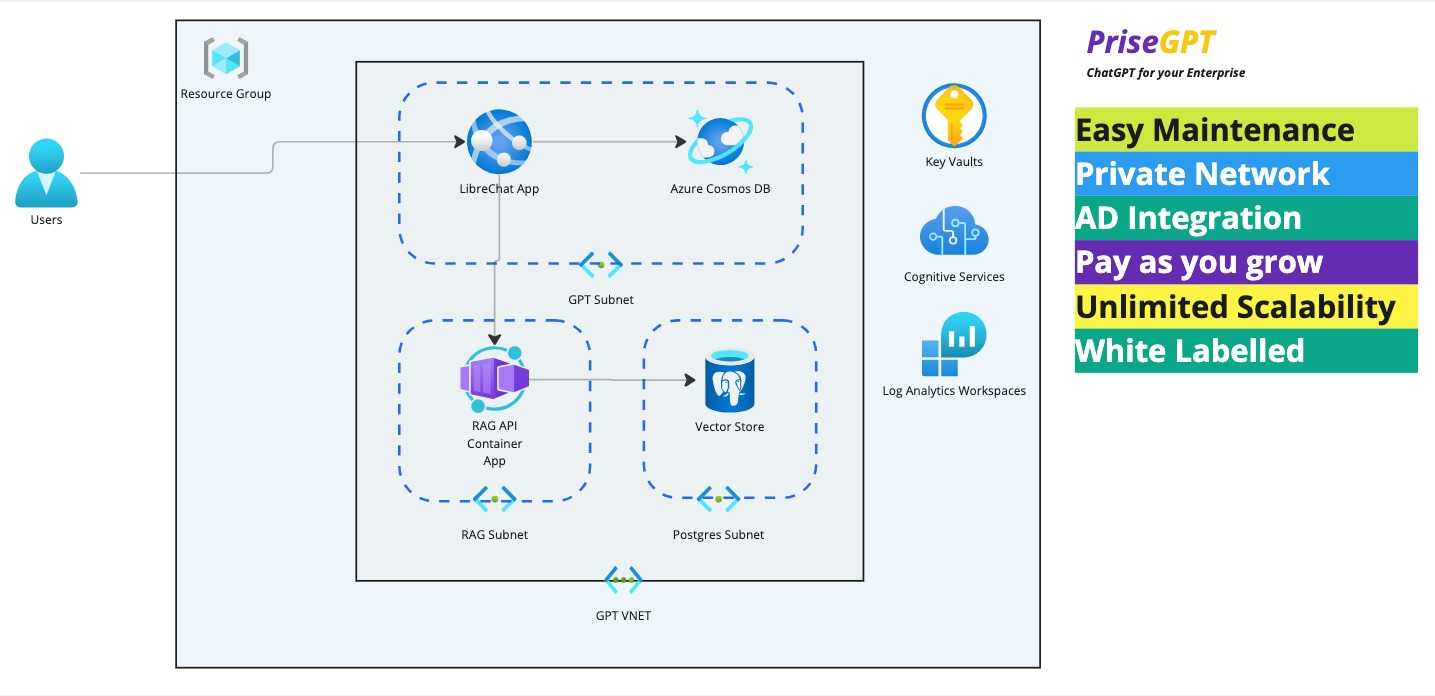
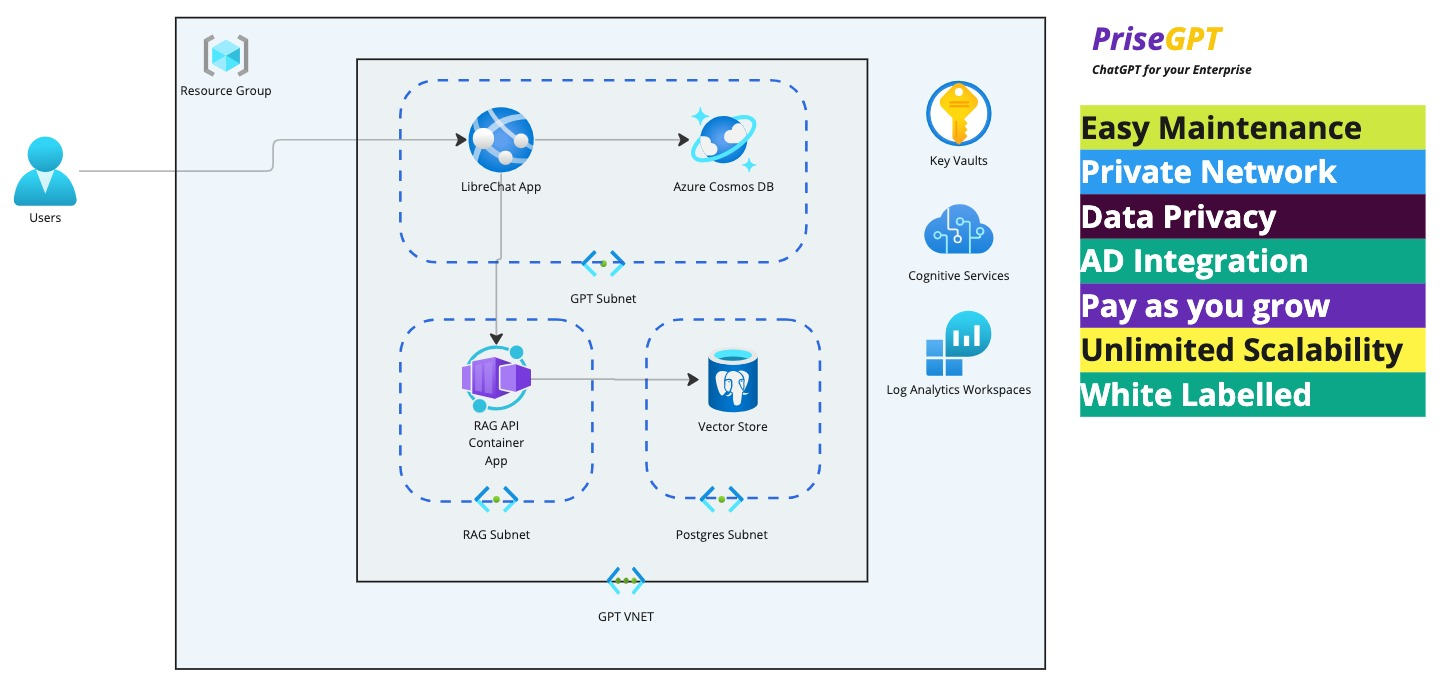
readme updates

diff --git a/README.md b/README.md
@@ -24,16 +24,23 @@ Version **1.x.** LibreChat on Azure with following features
 
 ## Introduction
 
-Under **OpenAI's** terms when using the public version of **ChatGPT**, any questions you pose—referred to as **"prompts"**—may contribute to the further training of OpenAI's Large Language Model (LLM). Given this, it's crucial to ask: Are you comfortable with this precious data flow leaving your organization? If you're a decision-maker or hold responsibility over your organization's security measures, what steps are you taking to ensure proprietary information remains confidential?  
+PriseGPT is a terraform module designed to provide enterprises with a ChatGPT-like solution within their Azure Virtual Private Cloud (VPC). It offers several key advantages:
 
-An effective solution lies in utilising a hosted version of the popular LLM on **Azure OpenAI**. While there are numerous advantages to Azure OpenAI, I'd like to spotlight two:
+- **Easy Maintenance**: Utilizing only containers and managed services, PriseGPT eliminates the need for virtual machines, simplifying maintenance and reducing operational overhead.
 
-- **Data Privacy**: By hosting OpenAI's models on Azure, your prompts will never serve as a source for training the LLM. It's simply a self-contained version running on Azure tailored for your use.
+- **Private Network**: Experience ChatGPT-like features securely within your Azure virtual private network, ensuring that sensitive conversations remain within your organization's infrastructure.
 
-- **Enhanced Security**: Azure OpenAI offers robust security measures, from the capability to secure specific endpoints to intricate role-based access controls.
-For a deeper dive, refer to this [Microsoft Learn article](https://learn.microsoft.com/en-us/azure/ai-services/openai/overview/?wt.mc_id=DT-MVP-5004771).  
+- **Data Privacy**: Leverage Microsoft's data guarantees and prevent your corporate data from being used for training. Unlike OpenAI's public ChatGPT, where prompts may contribute to model training, PriseGPT ensures your data remains confidential.
 
-While Azure OpenAI does come with a cost, it's highly affordable—often, a conversation costs under 10 cents. You can review Azure [OpenAI's pricing](https://azure.microsoft.com/en-us/pricing/details/cognitive-services/openai-service/) details here.
+- **Pay as You Grow**: Take advantage of your existing Azure credits and discounts to manage costs effectively. Scale your enterprise ChatGPT requirements in line with your usage and budget.
+
+- **Unlimited Scalability**: Both the application and database components can be scaled infinitely as your user base grows, ensuring performance and availability at any scale.
+
+- **White Labelled**: Customize the interface with your logos, colors, and corporate banners to maintain brand consistency and provide a seamless experience for your users.
+
+By hosting OpenAI's models on Azure through PriseGPT, you gain enhanced security measures, from securing specific endpoints to implementing intricate role-based access controls. This solution offers a cost-effective approach to enterprise-grade AI capabilities, with conversation costs often under 10 cents.
+
+For a deeper understanding of Azure OpenAI's capabilities, refer to this [Microsoft Learn article](https://learn.microsoft.com/en-us/azure/ai-services/openai/overview/?wt.mc_id=DT-MVP-5004771). You can also review Azure [OpenAI's pricing](https://azure.microsoft.com/en-us/pricing/details/cognitive-services/openai-service/) details for more information on costs.
 
 ## Architecture Diagram
 
